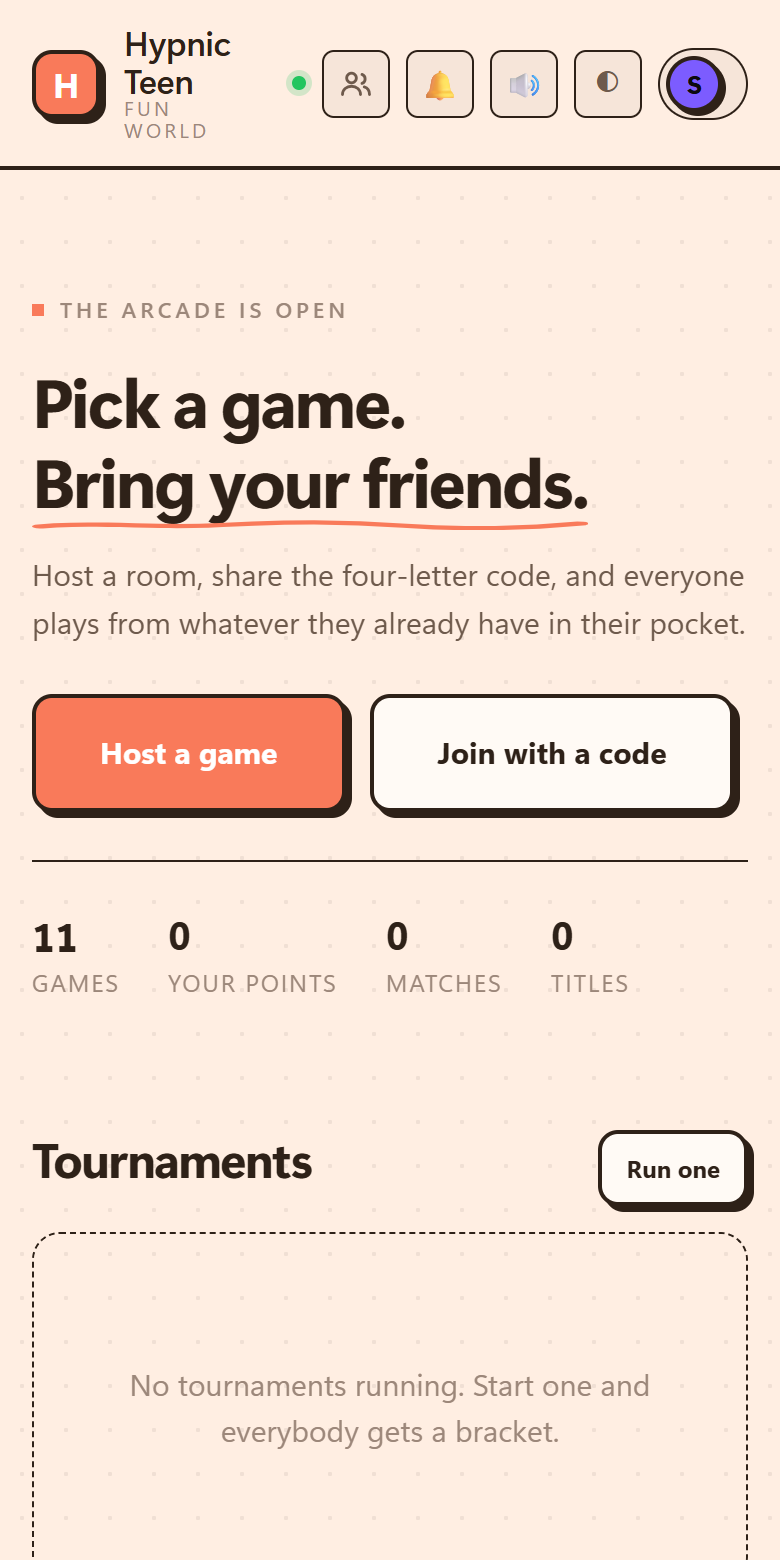
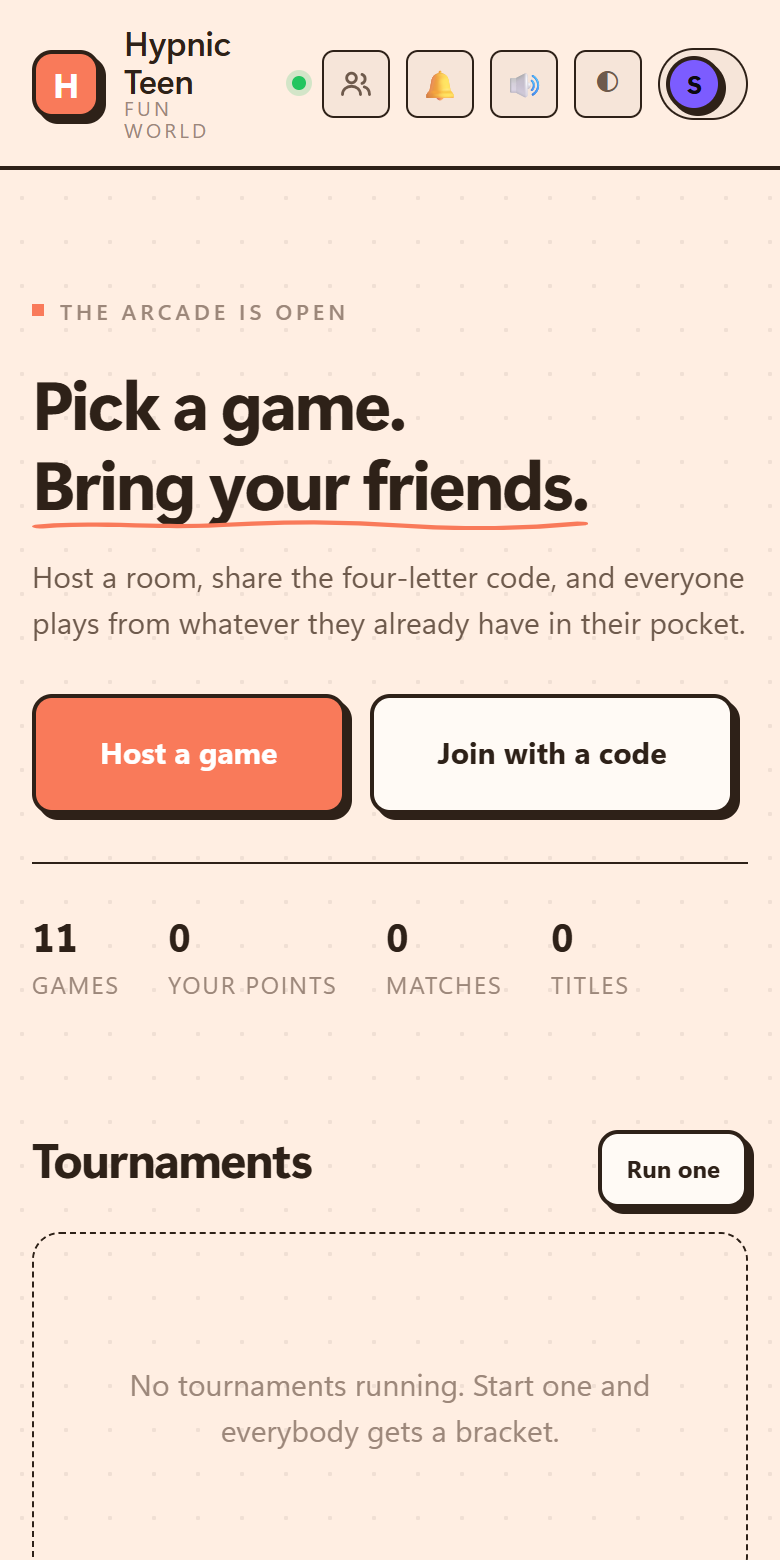
Picture rounds written by the people who will play them
The generated ones are not good enough and were never going to be. A model
breaking a title into photographable words produces clues that do not decode;
mapping the emoji a card already carries only works when the emoji happen to
be concrete; and neither knows which songs this particular room knows.

So the best rounds are the ones your friends write. This reads them off disk
in the simplest shape a person can produce without being taught a format:

  my-clues/
    Naatu Naatu/
      1.jpg
      2.jpg
      clues.txt        one clue per line, optional

The folder name is the answer, which is what makes it writable by somebody who
has never opened a JSON file. Filenames set the order, sorted numerically so
"10" does not come before "2" and scramble a sequence somebody thought about.
A folder with one picture is skipped rather than shown half-empty.

Both games use every one of yours before anything generated, then shuffle so
the same ones do not open every night. The folder is re-read when its
timestamp changes, so adding one during the week does not need a restart —
and it writes its own READ ME FIRST.txt, since the person filling it will not
be reading this.

diff --git a/server/own-clues.js b/server/own-clues.js
@@ -1,0 +1,152 @@
+// Picture rounds written by the people who will play them.
+//
+// The generated ones were not good enough. A model breaking a title into
+// photographable words produces clues that do not decode, and mapping the
+// emoji a card already carries only works when the emoji happen to be
+// concrete. Neither knows which songs this particular room actually knows.
+//
+// So the best rounds are the ones your friends write. This reads them off
+// disk, in the simplest shape a person can produce without being taught a
+// format: one folder per song, the folder named after the answer, the photos
+// inside it, and a clues.txt of one clue per line.
+//
+//   my-clues/
+//     Naatu Naatu/
+//       1.jpg
+//       2.jpg
+//       clues.txt      "From RRR" / "Two men dancing in front of a palace"
+//
+// Numbered filenames set the order the pictures are shown in. Anything the
+// folder cannot supply is simply left out, so a half-finished folder still
+// plays rather than breaking the game.
+
+import { existsSync, mkdirSync, readdirSync, readFileSync, statSync, writeFileSync } from 'node:fs';
+import path from 'node:path';
+
+import { MEDIA_ROOT } from './media.js';
+
+export const OWN_DIR = MEDIA_ROOT ? path.join(MEDIA_ROOT, 'my-clues') : null;
+
+const PICTURE = /\.(jpe?g|png|webp|gif)$/i;
+
+/** Written once so the folder explains itself to whoever opens it. */
+const README = `HOW TO ADD YOUR OWN PICTURE ROUNDS
+==================================
+
+Make one folder per song or film. Name the folder exactly what the answer is.
+
+  my-clues/
+    Naatu Naatu/
+      1.jpg
+      2.jpg
+      3.jpg
+      clues.txt
+
+The pictures are shown in filename order, so name them 1, 2, 3.
+Two to six pictures works best.
+
+clues.txt is optional. Put one clue on each line — they are shown one at a
+time if nobody guesses from the pictures alone:
+
+  From RRR
+  Two men dancing in front of a palace
+
+That is all. Drop the folder in, restart the studio, and it is in the game.
+Anything missing is just left out: no clues.txt is fine, and a folder with
+one picture is skipped rather than shown half-empty.
+`;
+
+if (OWN_DIR && !existsSync(OWN_DIR)) {
+  try {
+    mkdirSync(OWN_DIR, { recursive: true });
+    writeFileSync(path.join(OWN_DIR, 'READ ME FIRST.txt'), README);
+  } catch {
+    /* a store we cannot write to is one we simply do not use */
+  }
+}
+
+/**
+ * Everything on disk, as cards the games can deal.
+ *
+ * Read once at boot and again on demand, because the whole point is that
+ * somebody drops a folder in during the week and it is there next time.
+ */
+export function loadOwnClues() {
+  if (!OWN_DIR || !existsSync(OWN_DIR)) return [];
+
+  const cards = [];
+  for (const entry of readdirSync(OWN_DIR, { withFileTypes: true })) {
+    if (!entry.isDirectory()) continue;
+    const dir = path.join(OWN_DIR, entry.name);
+
+    let files;
+    try {
+      files = readdirSync(dir);
+    } catch {
+      continue;
+    }
+
+    // Filename order is the order they are shown in, so "10" must not sort
+    // before "2" — which a plain sort does, and which would scramble a clue
+    // sequence somebody thought about.
+    const pictures = files
+      .filter((f) => PICTURE.test(f))
+      .sort((a, b) => a.localeCompare(b, undefined, { numeric: true }));
+
+    // One picture is not a picture round.
+    if (pictures.length < 2) continue;
+
+    let clues = [];
+    const cluesFile = path.join(dir, 'clues.txt');
+    if (existsSync(cluesFile)) {
+      try {
+        clues = readFileSync(cluesFile, 'utf8')
+          .split(/\r?\n/)
+          .map((line) => line.trim())
+          .filter(Boolean)
+          .slice(0, 4);
+      } catch {
+        /* an unreadable clues.txt costs the hints, not the round */
+      }
+    }
+
+    cards.push({
+      // The folder name is the answer, which is what makes this writable by
+      // somebody who has never opened a JSON file.
+      answer: entry.name.trim(),
+      own: true,
+      clues,
+      pictures: pictures.map((f) => ({
+        url: `/media/mine/${encodeURIComponent(entry.name)}/${encodeURIComponent(f)}`,
+      })),
+    });
+  }
+  return cards;
+}
+
+let cache = loadOwnClues();
+let cachedAt = Date.now();
+
+/** Re-read if the folder has been touched since we last looked. */
+export function ownClues() {
+  if (!OWN_DIR) return [];
+  try {
+    const changed = statSync(OWN_DIR).mtimeMs > cachedAt;
+    if (changed || Date.now() - cachedAt > 60_000) {
+      cache = loadOwnClues();
+      cachedAt = Date.now();
+    }
+  } catch {
+    /* keep whatever we last had */
+  }
+  return cache;
+}
+
+export function ownCluesStatus() {
+  const cards = ownClues();
+  return {
+    dir: OWN_DIR,
+    cards: cards.length,
+    pictures: cards.reduce((n, c) => n + c.pictures.length, 0),
+  };
+}

diff --git a/server/games/songs.js b/server/games/songs.js
@@ -1,11 +1,12 @@
 // Guess the Song — emoji, then a lyric snippet, then where it's from.
 // Audio clips would need licensed files, so the clues are text and emoji only.
 
-import { createPartyGame, DIFFICULTY_TIME } from '../party.js';
+import { createPartyGame, shuffle, DIFFICULTY_TIME } from '../party.js';
 import { SONGS } from '../content.js';
 import { deal } from '../bank.js';
 import { pickerOptions, bankTopic, ofGenre, bioscopeFor } from '../cinema.js';
 import { clueFor } from '../media.js';
+import { ownClues } from '../own-clues.js';
 
 export default createPartyGame({
   id: 'songs',
@@ -31,9 +32,28 @@ export default createPartyGame({
 
   buildDeck: ({ rounds = 7, language = 'any', genre = 'any' } = {}) => {
     const want = Math.max(10, rounds + 3);
-    const pool = deal(bankTopic('songs', language), SONGS, want * 3);
-    return ofGenre(pool, genre, want)
-      .slice(0, want)
+
+    // Rounds your friends wrote come first, and every one of them is used
+    // before anything generated. Somebody chose those pictures for this room;
+    // a machine that broke a title into words did not. Where there are more
+    // than a match needs, they are shuffled so the same ones do not open
+    // every night.
+    const mine = shuffle(ownClues()).map((card) => ({
+      answer: card.answer,
+      aliases: [card.answer.replace(/[^A-Za-z0-9]/g, ''), card.answer.split(' ').slice(0, 2).join(' ')],
+      // Their own clues, shown one at a time if the pictures are not enough.
+      hints: card.clues.length ? card.clues : ['Look at the pictures again'],
+      pictures: card.pictures.map((p, n) => ({ n: n + 1, url: p.url })),
+      own: true,
+      seconds: DIFFICULTY_TIME.easy,
+    }));
+
+    const room = Math.max(0, want - mine.length);
+    if (!room) return mine.slice(0, want);
+
+    const pool = deal(bankTopic('songs', language), SONGS, room * 3);
+    const rest = ofGenre(pool, genre, room)
+      .slice(0, room)
       .map((s, i) => {
         // The Bioscope round the television show runs: a strip of photographs
         // that decodes into the title. Only where every word has a picture —
@@ -48,6 +68,8 @@ export default createPartyGame({
           seconds: DIFFICULTY_TIME.easy,
         };
       });
+
+    return shuffle([...mine, ...rest]);
   },
 
   promptFor: (round) => ({

diff --git a/server/games/movies.js b/server/games/movies.js
@@ -1,11 +1,12 @@
 // Guess the Movie — emoji first, then a dialogue, then a character name.
 // Guess on the emoji alone and you keep the biggest bonus.
 
-import { createPartyGame, DIFFICULTY_TIME } from '../party.js';
+import { createPartyGame, shuffle, DIFFICULTY_TIME } from '../party.js';
 import { MOVIES } from '../content.js';
 import { deal } from '../bank.js';
 import { pickerOptions, bankTopic, ofGenre, bioscopeFor } from '../cinema.js';
 import { clueFor } from '../media.js';
+import { ownClues } from '../own-clues.js';
 
 export default createPartyGame({
   id: 'movies',
@@ -36,9 +37,22 @@ export default createPartyGame({
     const want = Math.max(10, rounds + 3);
     // Deal generously, then narrow — asking the bank for exactly `want` and
     // then filtering by genre would leave a short deck and a truncated match.
-    const pool = deal(bankTopic('movies', language), MOVIES, want * 3);
-    return ofGenre(pool, genre, want)
-      .slice(0, want)
+    // Rounds your friends wrote come first — somebody chose those pictures
+    // for this room, which nothing generated can claim.
+    const mine = shuffle(ownClues()).map((card) => ({
+      answer: card.answer,
+      aliases: [card.answer.replace(/^The /i, ''), card.answer.replace(/[^A-Za-z0-9]/g, '')],
+      hints: card.clues.length ? card.clues : ['Look at the pictures again'],
+      pictures: card.pictures.map((p, n) => ({ n: n + 1, url: p.url })),
+      own: true,
+      seconds: DIFFICULTY_TIME.easy,
+    }));
+    const room = Math.max(0, want - mine.length);
+    if (!room) return mine.slice(0, want);
+
+    const pool = deal(bankTopic('movies', language), MOVIES, room * 3);
+    const rest = ofGenre(pool, genre, room)
+      .slice(0, room)
       .map((m, i) => {
         // Bioscope first, where the pictures exist: a strip of photographs
         // that decodes into the title, the way the television round does it.
@@ -55,6 +69,8 @@ export default createPartyGame({
           seconds: DIFFICULTY_TIME.easy,
         };
       });
+
+    return shuffle([...mine, ...rest]);
   },
 
   promptFor: (round) => ({

diff --git a/server/index.js b/server/index.js
@@ -49,6 +49,7 @@ import {
 } from './social.js';
 import { warmUpLLM } from './llm.js';
 import { CLUE_DIR, clueFor, clueVocabulary, mediaStatus } from './media.js';
+import { OWN_DIR, ownClues, ownCluesStatus } from './own-clues.js';
 import {
   attachTournaments,
   createTournament,
@@ -391,6 +392,13 @@ if (STUDY_PROXIED) {
     if (head?.length) proxied.write(head);
     proxied.end();
   });
+}
+
+// Picture rounds written by the players, served from the same store. Not
+// cached as hard as the downloaded ones: somebody adding a folder wants to
+// see it that evening, not after a browser decides a month has passed.
+if (OWN_DIR && existsSync(OWN_DIR)) {
+  app.use('/media/mine', express.static(OWN_DIR, { maxAge: '1h', index: false, dotfiles: 'deny' }));
 }
 
 app.get('/api/games', (_req, res) => res.json(listGames()));
